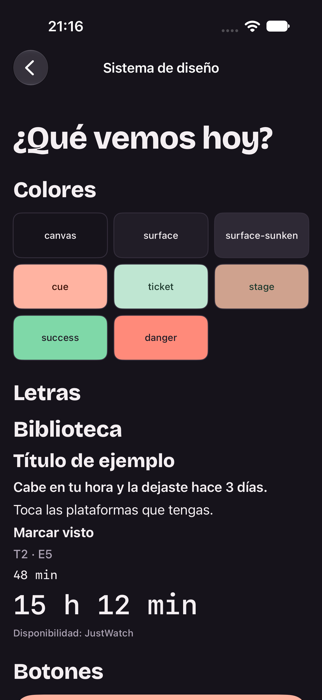
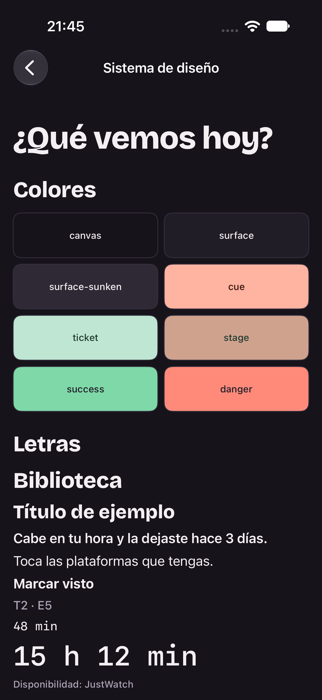
fix(design-system): show color swatches in two even columns

Changed region(s): [[0.0311, 0.33, 0.9627, 1.0], [0.4348, 0.84, 0.6211, 0.96], [0.1553, 0.03, 0.2795, 0.06]]

diff --git a/CueKit/Sources/DesignSystem/Catalog/DesignSystemCatalog.swift b/CueKit/Sources/DesignSystem/Catalog/DesignSystemCatalog.swift
@@ -59,7 +59,7 @@
 
         var body: some View {
             LazyVGrid(
-                columns: [GridItem(.adaptive(minimum: 100), spacing: CueSpacing.space2)],
+                columns: Array(repeating: GridItem(.flexible(), spacing: CueSpacing.space2), count: 2),
                 spacing: CueSpacing.space2
             ) {
                 ForEach(swatches, id: \.name) { swatch in
